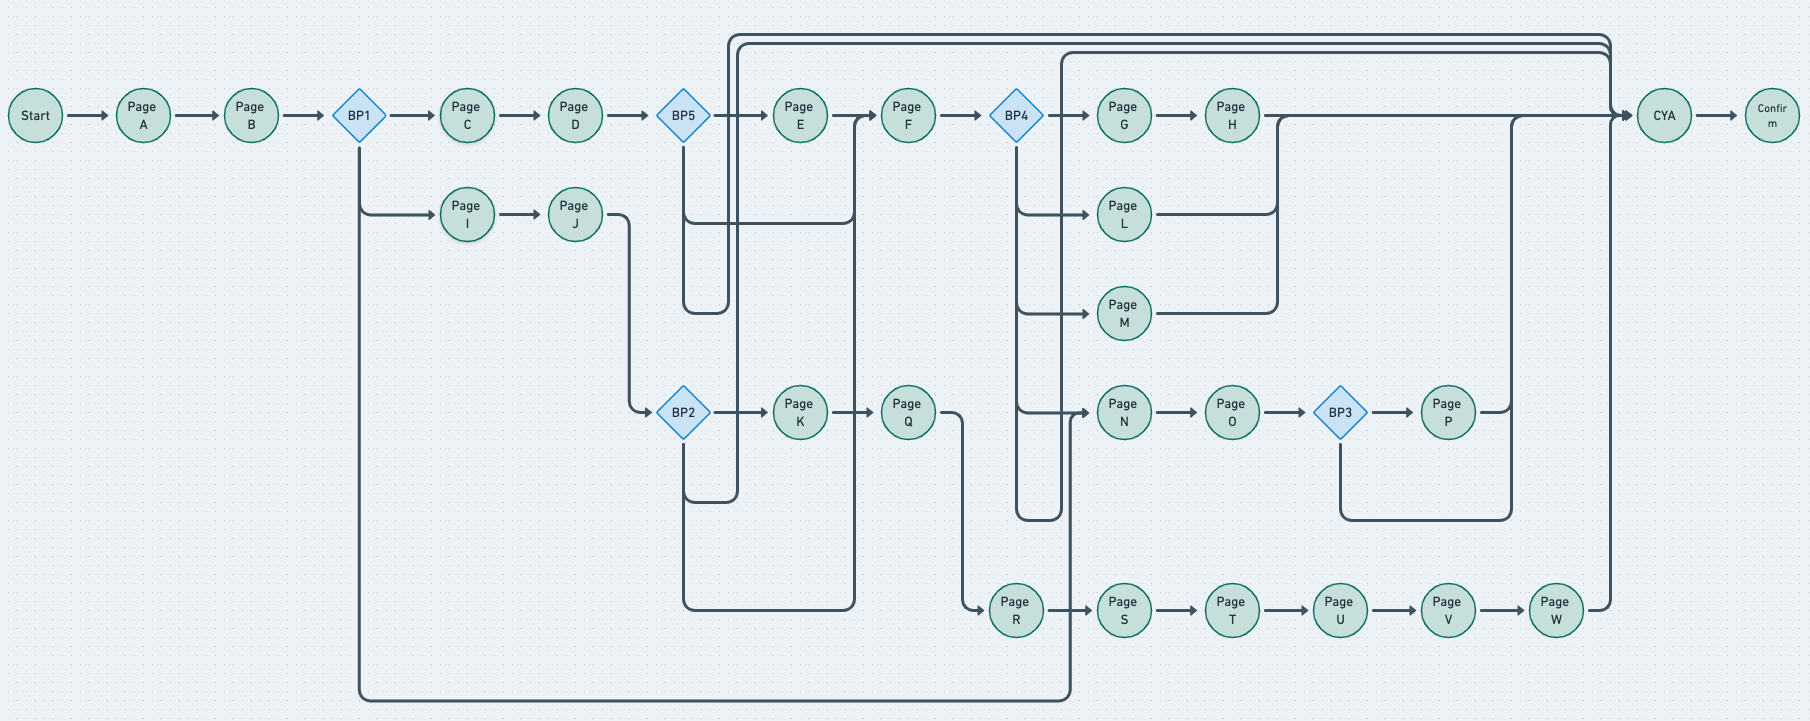
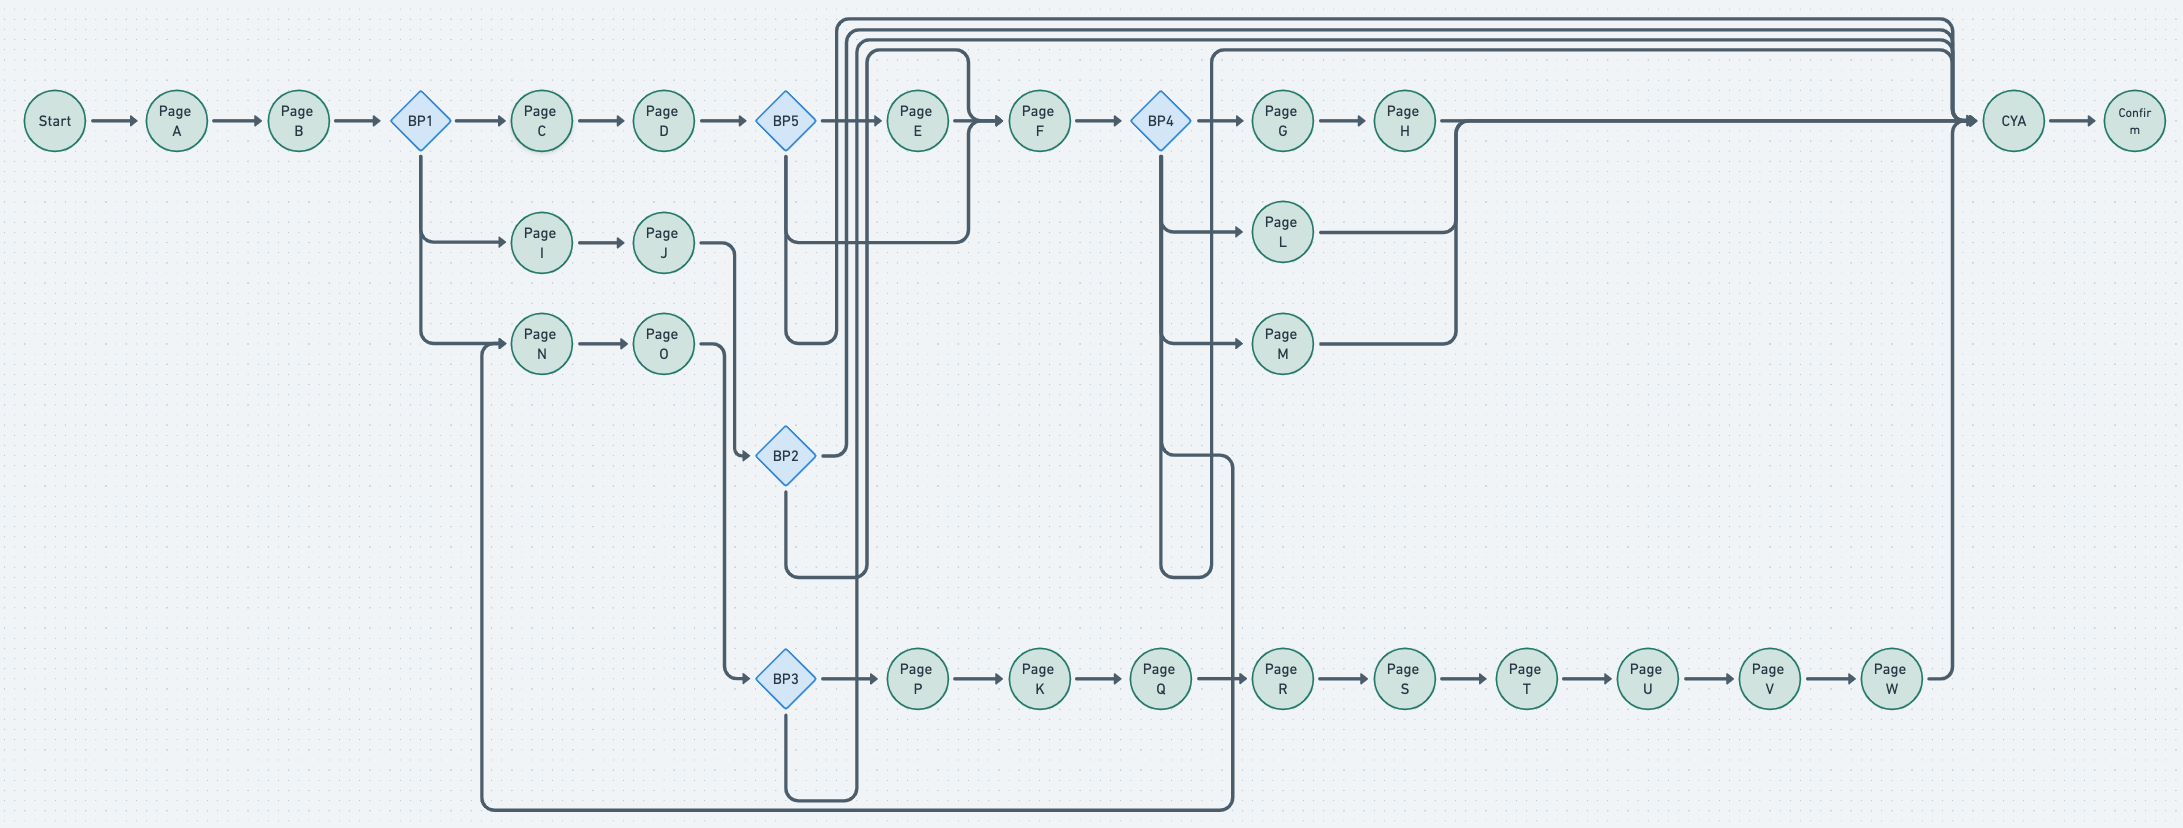
Update Fixture 10
Update to include an 'is answered' branch so we can run acceptance tests against this.

Changed region(s): [[0.0, 0.0, 1.0, 0.8849], [0.1856, 0.9459, 0.5878, 1.0], [0.7425, 0.7018, 0.8354, 0.7323]]

diff --git a/spec/models/grid_spec.rb b/spec/models/grid_spec.rb
@@ -182,7 +182,6 @@ RSpec.describe MetadataPresenter::Grid do
               MetadataPresenter::Spacer.new,
               service.flow_object('a02f7073-ba5a-459d-b6b9-abe548c933a6'), # Branching Point 2
               MetadataPresenter::Spacer.new,
-              MetadataPresenter::Spacer.new,
               service.flow_object('4cad5db1-bf68-4f7f-baf6-b2d48b342705') # Branching Point3
             ]
           end
@@ -206,7 +205,7 @@ RSpec.describe MetadataPresenter::Grid do
               service.flow_object('e047c5c8-457e-4f10-a4d8-1d927cd6b669') # Page S
             ]
           end
-          let(:expected_column_15) do
+          let(:expected_column_16) do
             [service.flow_object('da2576f9-7ddd-4316-b24b-103708139214')] # Checkanswers
           end
 
@@ -216,7 +215,7 @@ RSpec.describe MetadataPresenter::Grid do
             expect(flow_grid[6]).to eq(expected_column_6)
             expect(flow_grid[9]).to eq(expected_column_9)
             expect(flow_grid[10]).to eq(expected_column_10)
-            expect(flow_grid[15]).to eq(expected_column_15)
+            expect(flow_grid[16]).to eq(expected_column_16)
           end
         end
 

diff --git a/spec/models/coordinates_spec.rb b/spec/models/coordinates_spec.rb
@@ -114,7 +114,6 @@ RSpec.describe MetadataPresenter::Coordinates do
     let(:positions) { { uuid => { row: nil, column: 10 } } }
     let(:expected_branch_spacers) do
       {
-        '1314e473-9096-4434-8526-03a7b4b7b132' => { row: nil, column: 10 },
         'da2576f9-7ddd-4316-b24b-103708139214' => { row: nil, column: 10 },
         '7742dfcc-db2e-480b-9071-294fbe1769a2' => { row: nil, column: 10 }
       }
